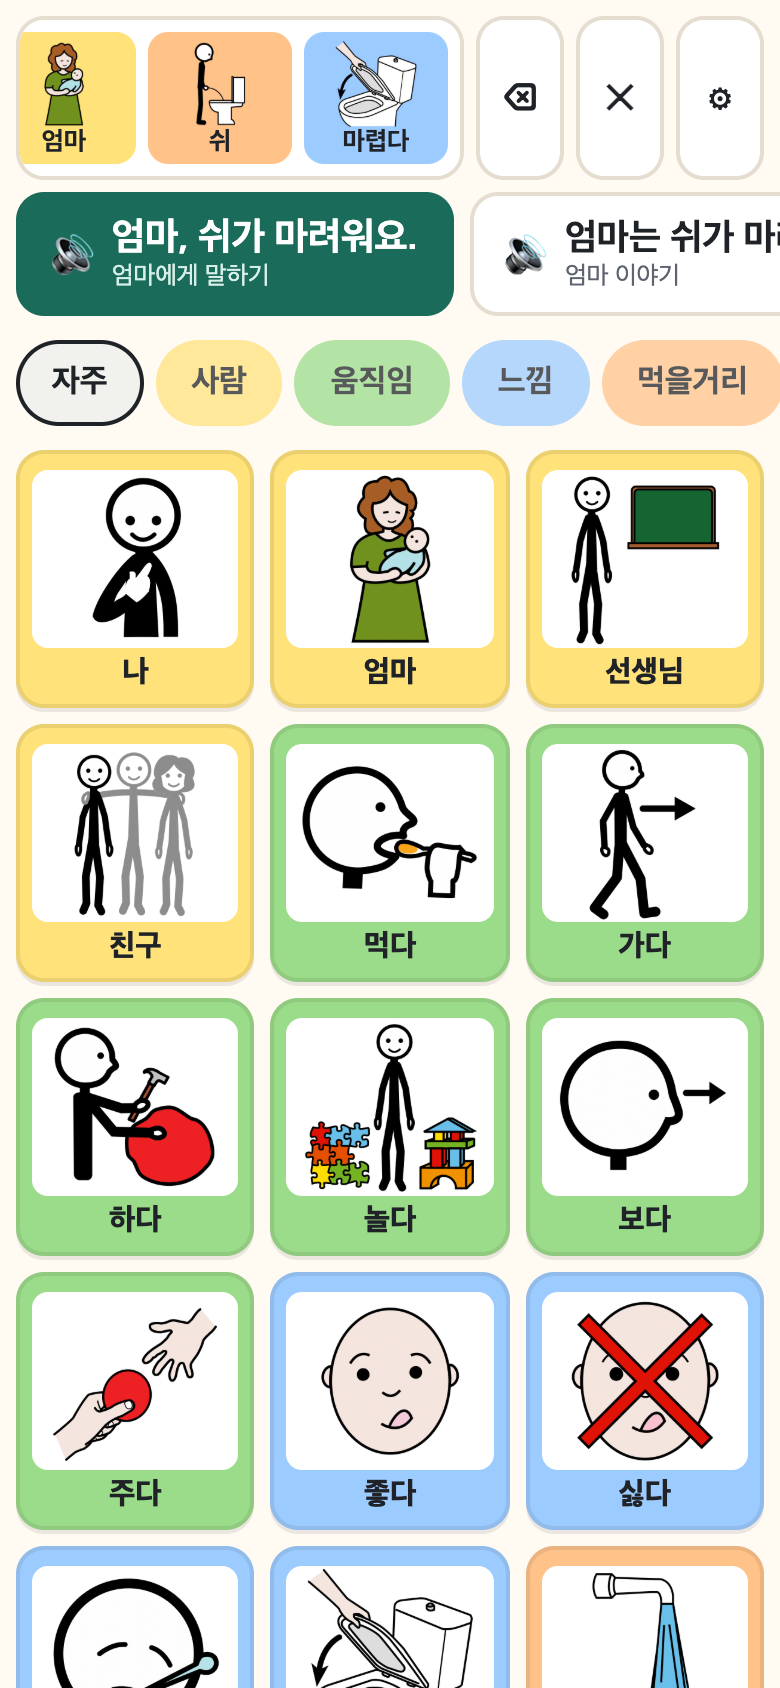
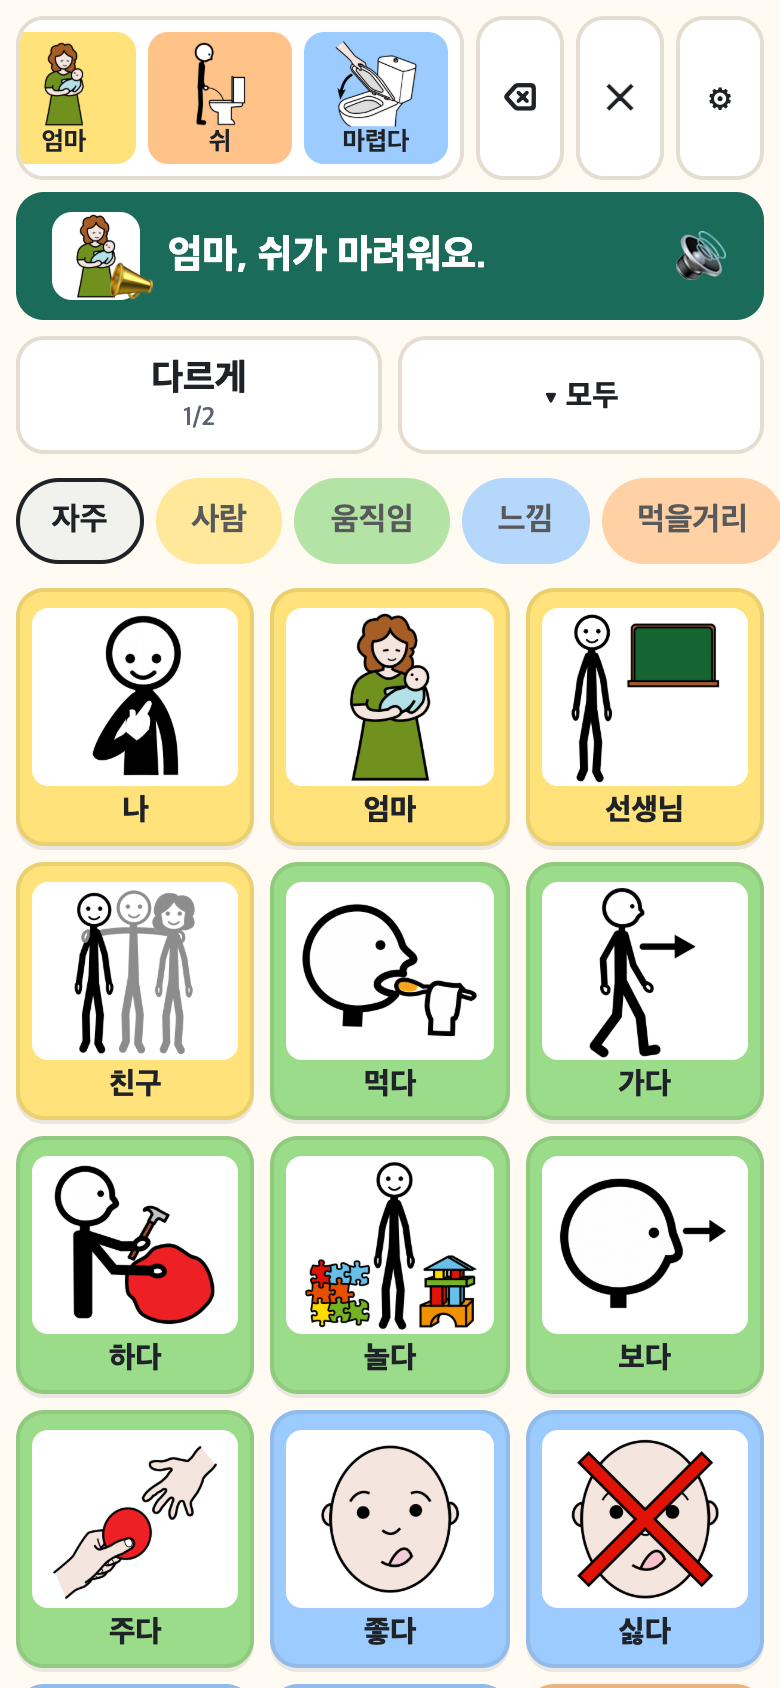
글을 몰라도 고르는 말하기: 큰 버튼 + 다르게(작은 소리로 미리 듣기) + 그림 단서
- 해석마다 그림 단서: 📣+부르는 사람, 💬+누구 이야기, ❓ 묻기
- '다르게'는 다음 해석을 작은 소리로 들려주고 기록(preview)에 남김
- 글 읽는 사용자·대화 상대용 '모두 보기' 목록
- 화면 테스트 13개

diff --git a/src/app/main.ts b/src/app/main.ts
@@ -18,6 +18,8 @@ let tab: TabId = 'core';
 let taps = 0;
 let firstAt = 0;
 let seq = 0;
+let pick = 0; // 지금 고른 해석(다르게 누를 때마다 다음 것)
+let showAll = false;
 // 과제 모드(사용성 평가): 과제마다 말투·문법 켬/끔이 정해진다
 let task: { code: string; index: number } | null = null;
 
@@ -92,7 +94,7 @@ function say(i: number) {
 }
 
 function flash(i: number) {
-  const el = document.querySelector<HTMLElement>(`[data-cand="${i}"]`);
+  const el = document.querySelector<HTMLElement>(showAll ? `[data-cand="${i}"]` : '#say');
   el?.classList.add('spoken');
   window.setTimeout(() => el?.classList.remove('spoken'), 900);
 }
@@ -139,6 +141,21 @@ function renderStrip() {
   strip.scrollLeft = strip.scrollWidth;
 }
 
+/** 해석의 그림 단서: 누구에게 말하는지(📣 + 그 사람), 누구 이야기인지(그 사람), 묻기(?) — 글을 몰라도 고를 수 있게 */
+function cueOf(c: Candidate): { pic: string | null; badge: string } {
+  const byKey = (k: string | undefined) => sentence.find((x) => x.key === k)?.entry;
+  const voc = c.tokens.find((t) => t.role === 'vocative');
+  if (voc) return { pic: pictureFor(byKey(voc.sources[0])), badge: '📣' };
+  const subj = c.tokens.find((t) => (t.role === 'agent' || t.role === 'experiencer') && t.text);
+  const badge = c.features.mood === 'question' || c.features.mood === 'volitionQ' ? '❓' : '💬';
+  if (subj) return { pic: pictureFor(byKey(subj.sources[0])), badge };
+  return { pic: pictureFor(CORE.find((e) => e.id === 'na')), badge }; // 주어가 없으면 대개 '나'의 말
+}
+
+function pictureFor(e: Entry | undefined): string | null {
+  return e ? pictureOf(e, photos()) : null;
+}
+
 function renderSpeak() {
   const box = $('speak');
   box.replaceChildren();
@@ -151,22 +168,78 @@ function renderSpeak() {
     }
     return;
   }
-  candidates.forEach((c, i) => {
+  const c = candidates[pick] ?? candidates[0]!;
+  const main = document.createElement('button');
+  main.id = 'say';
+  main.className = 'say-main';
+  const cue = cueOf(c);
+  main.innerHTML = `<span class="cue"><span class="badge"></span></span><span class="text"></span><span class="icon" aria-hidden="true">🔊</span>`;
+  if (cue.pic && settings.grammar) {
+    const img = document.createElement('img');
+    img.src = cue.pic;
+    img.alt = '';
+    main.querySelector('.cue')!.prepend(img);
+  }
+  main.querySelector('.badge')!.textContent = settings.grammar ? cue.badge : '';
+  main.querySelector('.text')!.textContent = c.text;
+  main.setAttribute('aria-label', `말하기: ${c.text}`);
+  main.onclick = () => say(pick);
+  box.append(main);
+
+  if (candidates.length > 1) {
+    const other = document.createElement('button');
+    other.id = 'other';
+    other.className = 'say-other';
+    other.innerHTML = `<span>다르게</span><small>${pick + 1}/${candidates.length}</small>`;
+    other.setAttribute('aria-label', `다른 뜻으로 (${pick + 1}/${candidates.length})`);
+    other.onclick = () => {
+      pick = (pick + 1) % candidates.length;
+      log({ type: 'preview', rank: pick });
+      renderSpeak();
+      speak(candidates[pick]!.text, settings.rate, true); // 미리 듣기: 작은 소리
+      scanner.refresh();
+    };
+    box.append(other);
+
+    const more = document.createElement('button');
+    more.id = 'more';
+    more.className = 'say-more';
+    more.textContent = showAll ? '▴ 접기' : '▾ 모두';
+    more.setAttribute('aria-expanded', String(showAll));
+    more.onclick = () => {
+      showAll = !showAll;
+      renderSpeak();
+      scanner.refresh();
+    };
+    box.append(more);
+  }
+
+  // 모든 해석 목록: 글을 읽는 사용자·대화 상대용. 접혀 있어도 DOM 에 남긴다(보조기술·테스트).
+  const list = document.createElement('ol');
+  list.id = 'alts';
+  list.className = showAll ? 'alts open' : 'alts';
+  candidates.forEach((cand, i) => {
+    const li = document.createElement('li');
     const b = document.createElement('button');
-    b.className = i === 0 ? 'cand first' : 'cand';
+    b.className = i === pick ? 'cand on' : 'cand';
     b.dataset.cand = String(i);
-    b.innerHTML = `<span class="say">🔊</span><span class="text"></span><small></small>`;
-    b.querySelector('.text')!.textContent = c.text;
-    b.querySelector('small')!.textContent = c.note;
-    b.setAttribute('aria-label', `말하기: ${c.text}`);
-    b.onclick = () => say(i);
-    box.append(b);
+    b.innerHTML = `<span class="text"></span><small></small>`;
+    b.querySelector('.text')!.textContent = cand.text;
+    b.querySelector('small')!.textContent = cand.note;
+    b.onclick = () => {
+      pick = i;
+      say(i);
+    };
+    li.append(b);
+    list.append(li);
   });
+  box.append(list);
+
   const unused = candidates[0]?.unused ?? [];
   if (unused.length) {
     const p = document.createElement('p');
     p.className = 'hint';
-    const names = unused.map((k) => sentence.find((c) => c.key === k)).filter(Boolean).map((c) => labelOf(c!.entry));
+    const names = unused.map((k) => sentence.find((x) => x.key === k)).filter(Boolean).map((x) => labelOf(x!.entry));
     p.textContent = `‘${names.join(', ')}’ 카드는 움직임·느낌 카드와 함께 쓰면 문장에 들어가요`;
     box.append(p);
   }
@@ -252,6 +325,7 @@ $('task-stop').onclick = () => {
 
 function update() {
   compute();
+  pick = 0;
   renderStrip();
   renderSpeak();
   scanner.refresh();
@@ -259,7 +333,8 @@ function update() {
 
 // ── 스캐닝 ──────────────────────────────────────────────────────────────
 function scanGroups(): HTMLElement[][] {
-  const cands = [...document.querySelectorAll<HTMLElement>('#speak .cand')];
+  const cands = [...document.querySelectorAll<HTMLElement>('#speak .say-main, #speak .say-other, #speak .say-more')];
+  const list = showAll ? [...document.querySelectorAll<HTMLElement>('#alts .cand')] : [];
   const tools = [...document.querySelectorAll<HTMLElement>('.strip-tools .tool')];
   const tabs = [...document.querySelectorAll<HTMLElement>('#tabs .tab')];
   const cards = [...document.querySelectorAll<HTMLElement>('#grid .card')];
@@ -269,7 +344,7 @@ function scanGroups(): HTMLElement[][] {
     rows.set(top, [...(rows.get(top) ?? []), c]);
   }
   const taskButtons = [...document.querySelectorAll<HTMLElement>('#task button')];
-  return [cands, ...[...rows.values()], tabs, tools, taskButtons];
+  return [cands, list, ...[...rows.values()], tabs, tools, taskButtons];
 }
 
 const scanner = new Scanner(scanGroups, () => settings.scanMs);

diff --git a/src/app/style.css b/src/app/style.css
@@ -138,52 +138,110 @@ select:focus-visible {
   font-size: 1.1rem;
 }
 
-/* ── 말할 문장 후보 ── */
+/* ── 말하기: 큰 버튼 하나 + 다르게 + 모두 보기 ── */
 .speak {
   display: flex;
+  flex-wrap: wrap;
   gap: 8px;
   padding: 0 12px 8px;
-  overflow-x: auto;
-  min-height: 12px;
-  scrollbar-width: none;
+  align-items: stretch;
 }
-.cand {
+.say-main {
+  flex: 1 1 420px;
+  display: flex;
+  align-items: center;
+  gap: 14px;
+  min-height: 76px;
+  padding: 10px 18px;
+  border: none;
+  border-radius: var(--radius);
+  background: var(--accent);
+  color: var(--accent-ink);
+  text-align: left;
+}
+.say-main .cue {
+  position: relative;
+  flex: 0 0 auto;
+  width: 56px;
+  height: 56px;
+}
+.say-main .cue img {
+  width: 56px;
+  height: 56px;
+  object-fit: contain;
+  background: #fff;
+  border-radius: 10px;
+}
+.say-main .badge {
+  position: absolute;
+  right: -8px;
+  bottom: -6px;
+  font-size: 1.35rem;
+}
+.say-main .text {
+  flex: 1;
+  font-size: 1.6rem;
+  font-weight: 800;
+  line-height: 1.25;
+  word-break: keep-all;
+}
+.say-main .icon {
+  font-size: 1.6rem;
+}
+.say-other,
+.say-more {
   flex: 0 0 auto;
   display: grid;
-  grid-template-columns: auto 1fr;
-  grid-template-rows: auto auto;
-  column-gap: 8px;
-  align-items: center;
-  text-align: left;
-  padding: 10px 16px;
+  place-items: center;
+  min-width: 96px;
+  padding: 8px 14px;
   border: 2px solid var(--line);
   border-radius: var(--radius);
   background: var(--panel);
-  max-width: 88vw;
+  font-weight: 800;
+  font-size: 1.15rem;
 }
-.cand .say {
-  grid-row: span 2;
-  font-size: 1.3rem;
+.say-other small {
+  font-size: 0.8rem;
+  color: var(--muted);
+  font-weight: 600;
+}
+.say-more {
+  min-width: 72px;
+  font-size: 0.95rem;
+}
+.alts {
+  display: none;
+  flex-basis: 100%;
+  list-style: none;
+  margin: 0;
+  padding: 0;
+  gap: 6px;
+  flex-wrap: wrap;
+}
+.alts.open {
+  display: flex;
+}
+.cand {
+  display: grid;
+  text-align: left;
+  padding: 8px 14px;
+  border: 2px solid var(--line);
+  border-radius: 12px;
+  background: var(--panel);
 }
 .cand .text {
-  font-size: 1.15rem;
+  font-size: 1.1rem;
   font-weight: 700;
 }
 .cand small {
   color: var(--muted);
   font-size: 0.78rem;
 }
-.cand.first {
-  background: var(--accent);
-  color: var(--accent-ink);
+.cand.on {
   border-color: var(--accent);
 }
-.cand.first .text {
-  font-size: 1.45rem;
-}
-.cand.first small {
-  color: #d6efe8;
-}
+.say-main.spoken,
 .cand.spoken {
   animation: pulse 0.9s ease;
 }
@@ -192,7 +250,7 @@ select:focus-visible {
     transform: scale(1);
   }
   30% {
-    transform: scale(1.04);
+    transform: scale(1.03);
     box-shadow: 0 0 0 6px color-mix(in srgb, var(--accent) 30%, transparent);
   }
   100% {
@@ -309,6 +367,7 @@ select:focus-visible {
   .card:active {
     transform: none;
   }
+  .say-main.spoken,
   .cand.spoken {
     animation: none;
   }
@@ -471,8 +530,21 @@ input[type='radio'] {
   .card span {
     font-size: 0.95rem;
   }
-  .cand.first .text {
-    font-size: 1.2rem;
+  .say-main {
+    flex-basis: 100%;
+    min-height: 64px;
+  }
+  .say-main .text {
+    font-size: 1.25rem;
+  }
+  .say-main .cue,
+  .say-main .cue img {
+    width: 44px;
+    height: 44px;
+  }
+  .say-other,
+  .say-more {
+    flex: 1;
   }
 }
 

diff --git a/src/app/store.ts b/src/app/store.ts
@@ -36,7 +36,7 @@ export interface MyCard {
 /** 익명 사용 기록 한 줄. 이름·사진·음성은 남기지 않는다. */
 export interface LogEvent {
   t: number; // ms (기록 시작 기준이 아니라 절대 시각 — 내보낼 때 상대 시각으로 바꾼다)
-  type: 'add' | 'remove' | 'clear' | 'speak' | 'task';
+  type: 'add' | 'remove' | 'clear' | 'speak' | 'task' | 'preview';
   card?: string; // 카드 id (내 카드는 'mine' 으로만)
   rank?: number; // 말한 후보가 몇 번째였는지(0 = 1순위)
   taps?: number; // 이 문장을 만드는 데 누른 횟수

diff --git a/src/app/speech.ts b/src/app/speech.ts
@@ -19,12 +19,14 @@ export function hasKoreanVoice(): boolean {
   return !!(voice ?? pickVoice());
 }
 
-export function speak(text: string, rate = 0.9) {
+/** quiet: '다르게'로 해석을 미리 들어 볼 때 작은 소리로 */
+export function speak(text: string, rate = 0.9, quiet = false) {
   if (typeof speechSynthesis === 'undefined') return;
   speechSynthesis.cancel();
   const u = new SpeechSynthesisUtterance(text);
   u.lang = 'ko-KR';
   u.rate = rate;
+  u.volume = quiet ? 0.45 : 1;
   const v = voice ?? pickVoice();
   if (v) u.voice = v;
   speechSynthesis.speak(u);
